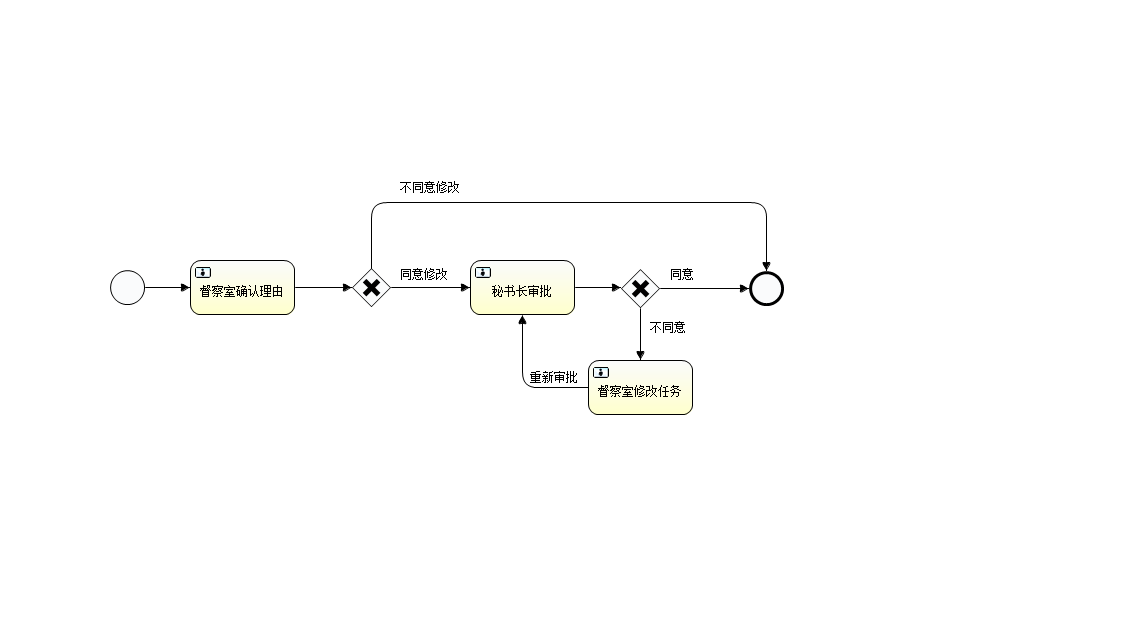
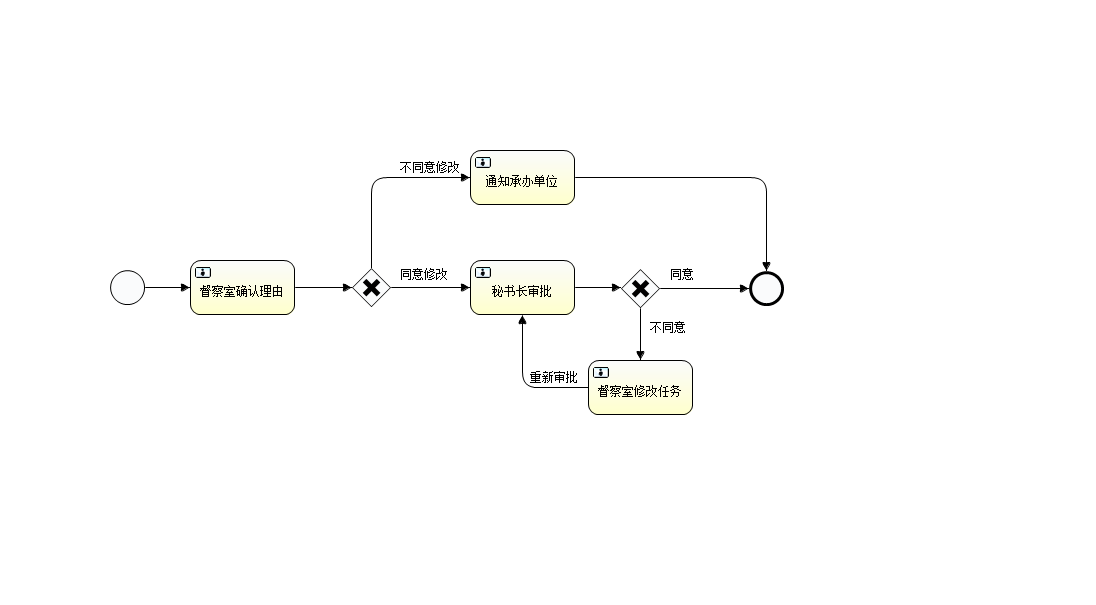
拒签收

Changed region(s): [[0.0931, 0.4165, 0.7135, 0.6843], [0.3412, 0.238, 0.6515, 0.357], [0.3102, 0.3273, 0.3412, 0.357]]

diff --git a/WebContent/js/app/project_c.js b/WebContent/js/app/project_c.js
@@ -51,6 +51,8 @@ $(function(){
 								return "<span class='text-success'>审批通过</span>";
 							case "APPROVAL_FAILED":
 								return "<span class='text-danger'>审批失败</span>";
+							case "REFUSE_FAILED":
+								return "<span class='text-primary'>拒签失败</span>";
 							case "WAITING_FOR_APPROVAL":
 								return "<span class='text-warning'>待申请审批</span>";
 							case "PENDING":

diff --git a/src/com/hdc/service/impl/ProjectServiceImpl.java b/src/com/hdc/service/impl/ProjectServiceImpl.java
@@ -98,7 +98,7 @@ public class ProjectServiceImpl implements IProjectService {
 		
 		if(type == 1) {
 			//待签收/已签收/审批中/审批通过/审批失败
-			sb.append("where a.is_delete = 0 and (a.status = 'WAIT_FOR_CLAIM' or a.status = 'CLAIMED' or a.status = 'PENDING' or a.status = 'APPROVAL_SUCCESS' or a.status = 'APPROVAL_FAILED') and a.group_id = :groupId and (a.user_id = :userId or a.user_id is null)");
+			sb.append("where a.is_delete = 0 and (a.status = 'WAIT_FOR_CLAIM' or a.status = 'CLAIMED' or a.status = 'PENDING' or a.status = 'APPROVAL_SUCCESS' or a.status = 'APPROVAL_FAILED' or a.status = 'REFUSE_FAILED') and a.group_id = :groupId and (a.user_id = :userId or a.user_id is null)");
 		} else if(type == 2) {
 			//办理中/申请办结
 			sb.append("where a.is_delete = 0 and (a.status = 'IN_HANDLING' or a.status = 'APPLY_FINISHED') and a.group_id = :groupId and a.user_id = :userId ");
@@ -238,7 +238,7 @@ public class ProjectServiceImpl implements IProjectService {
 			processTask.setTaskInfoId(taskInfo.getId());
 			processTask.setTaskInfoType(taskInfo.getTaskSource().getTaskInfoType().getName());
 			processTask.setTitle("任务交办表审批不通过，请修改后重新审批！");
-			processTask.setUrl("/project/toProject/change_failed?projectId="+projectId.toString());
+			processTask.setUrl("/project/toProject/modify?projectId="+projectId.toString());
 			Serializable processTaskId = this.processTaskService.doAdd(processTask);
 			variables.put("processTaskId", processTaskId.toString());
 		}
@@ -345,7 +345,7 @@ public class ProjectServiceImpl implements IProjectService {
 			Serializable processTaskId = this.processTaskService.doAdd(processTask);
 			variables.put("processTaskId", processTaskId.toString());
 		} else {
-			project.setStatus(ApprovalStatus.APPROVAL_FAILED.toString()); 	//不同意修改承办单位
+			project.setStatus(ApprovalStatus.REFUSE_FAILED.toString()); 	//不同意修改承办单位
 			TaskInfo taskInfo = project.getTaskInfo();
 			ProcessTask processTask = new ProcessTask();
 			processTask.setTaskTitle(taskInfo.getTitle());
@@ -354,7 +354,7 @@ public class ProjectServiceImpl implements IProjectService {
 			processTask.setTaskInfoId(taskInfo.getId());
 			processTask.setTaskInfoType(taskInfo.getTaskSource().getTaskInfoType().getName());
 			processTask.setTitle("您拒绝签收的操作被驳回，查看驳回原因！");
-			processTask.setUrl("/project/toProject/details?projectId="+project.getId());
+			processTask.setUrl("/project/toProject/change_failed?projectId="+project.getId());
 			Serializable processTaskId = this.processTaskService.doAdd(processTask);
 			variables.put("processTaskId", processTaskId.toString());
 		}
@@ -370,6 +370,11 @@ public class ProjectServiceImpl implements IProjectService {
 		variables.put("isPass", isPass);
 		this.processService.complete(taskId, comments, variables);
 		
+	}
+
+	@Override
+	public void doCompleteApprovalFailed(String taskId) throws Exception {
+		this.processService.complete(taskId, null, null);
 	}
 
 }

diff --git a/src/com/hdc/controller/ProjectController.java b/src/com/hdc/controller/ProjectController.java
@@ -84,7 +84,7 @@ public class ProjectController {
 			//拒签操作被驳回的操作
 			List<Comments> commentsList = this.commentsService.findComments(projectId, BusinessForm.PROJECT_FORM.toString());
 			mv.addObject("commentsList", commentsList);
-			mv.setViewName("change_failed_project");
+			mv.setViewName("project/change_failed_project");
 		}
     	Project project = this.projectService.findById(projectId);
     	if(project != null) {
@@ -219,6 +219,8 @@ public class ProjectController {
      * @return
      * @throws Exception
      */
+    @RequestMapping("/approvalRefuse")
+    @ResponseBody
     public Message approvalRefuse(
     		@RequestParam("projectId") Integer projectId, 
     		@RequestParam("oldHostGroup") Integer oldGroupId,
@@ -299,6 +301,28 @@ public class ProjectController {
         } catch (Exception e) {
 			message.setStatus(Boolean.FALSE);
 			message.setMessage("操作失败！");
+			throw e;
+		}
+    	return message;
+    }
+    
+    /**
+     * 查看驳回申请时，点确认完成任务
+     * @param taskId
+     * @return
+     * @throws Exception
+     */
+    @RequestMapping("/completeApprovalFailed")
+    @ResponseBody
+    public Message completeApprovalFailed(
+			@RequestParam(value = "taskId", required = false) String taskId) throws Exception {
+    	Message message = new Message();
+    	try {
+    		this.projectService.doCompleteApprovalFailed(taskId);
+    		message.setMessage("已确认");
+		} catch (Exception e) {
+			message.setStatus(Boolean.FALSE);
+			message.setMessage("确认失败!");
 			throw e;
 		}
     	return message;

diff --git a/src/com/hdc/util/Constants.java b/src/com/hdc/util/Constants.java
@@ -43,10 +43,10 @@ public class Constants {
     
 	/**
 	 * 审批状态枚举
-	 * 审批中、待审批、审批成功(通过)、审批失败(不通过)、通过后重新提交审批(发现业务表单填写错了，但是审批已经通过了)
+	 * 审批中、待审批、审批成功(通过)、拒签收失败、审批失败(不通过)、通过后重新提交审批(发现业务表单填写错了，但是审批已经通过了)
 	 */
 	public enum ApprovalStatus {
-		PENDING("PENDING"), WAITING_FOR_APPROVAL("WAITING_FOR_APPROVAL"), APPROVAL_SUCCESS("APPROVAL_SUCCESS"), APPROVAL_FAILED("APPROVAL_FAILED"), REAPPROVAL("REAPPROVAL") ;
+		PENDING("PENDING"), WAITING_FOR_APPROVAL("WAITING_FOR_APPROVAL"), APPROVAL_SUCCESS("APPROVAL_SUCCESS"), REFUSE_FAILED("REFUSE_FAILED"), APPROVAL_FAILED("APPROVAL_FAILED"), REAPPROVAL("REAPPROVAL") ;
 		private final String value;
 		private ApprovalStatus(String value) {
 			this.value = value;
@@ -68,6 +68,9 @@ public class Constants {
 					break;
 				case "APPROVAL_SUCCESS":
 					as = APPROVAL_SUCCESS;
+					break;
+				case "REFUSE_FAILED":
+					as = REFUSE_FAILED;
 					break;
 				case "APPROVAL_FAILED":
 					as = APPROVAL_FAILED;

diff --git a/src/com/hdc/service/IProjectService.java b/src/com/hdc/service/IProjectService.java
@@ -125,6 +125,14 @@ public interface IProjectService {
 	public void doCompleteTask(Integer projectId, String suggestion, String taskId) throws Exception;
 	
 	/**
+	 * 查看驳回申请时，点确认完成任务
+	 * @param projectId
+	 * @param taskId
+	 * @throws Exception
+	 */
+	public void doCompleteApprovalFailed(String taskId) throws Exception;
+	
+	/**
 	 * 删除
 	 * @param id
 	 * @throws Exception
